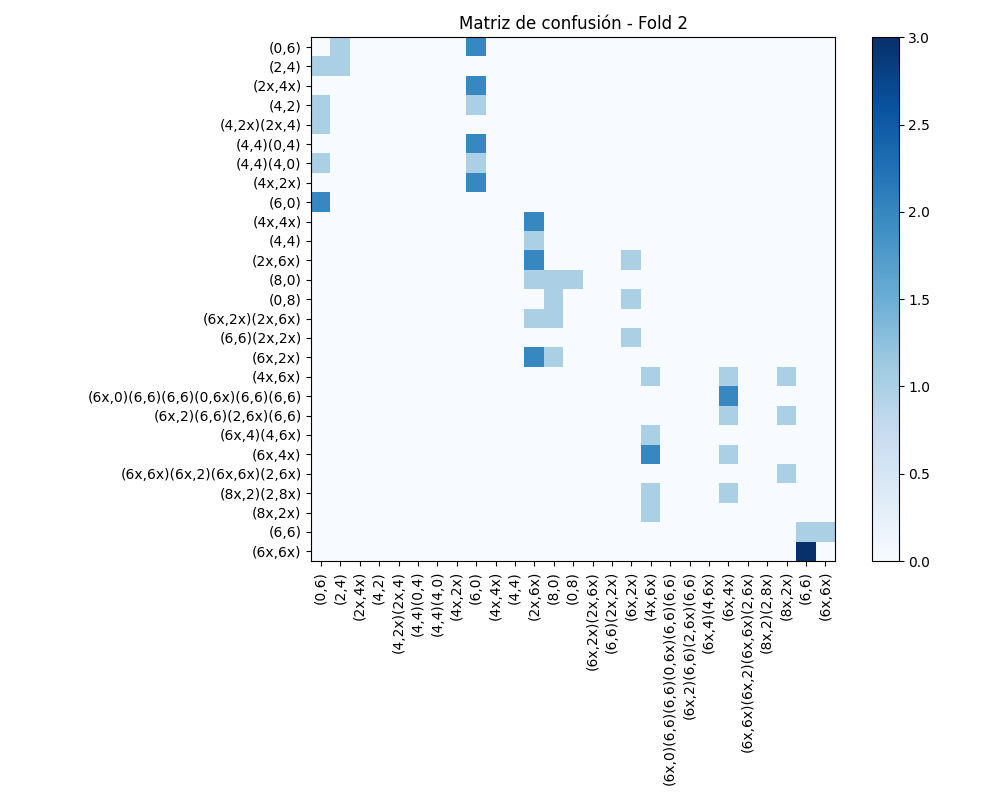
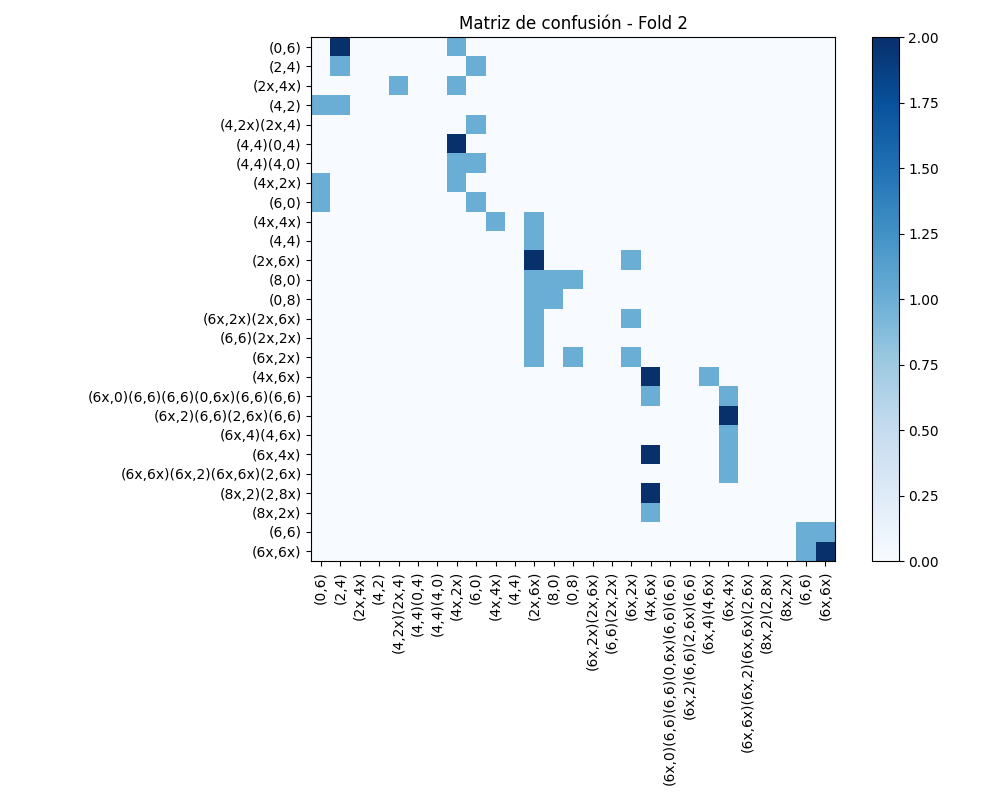
ran cv w/ latest tuned hyperparams (except dropout) + refactor Rasmus folder

diff --git a/arquinew.py b/arquinew.py
@@ -1,6 +1,6 @@
 import tensorflow as tf
 from tensorflow.keras import layers, models
-from tensorflow.keras.optimizers import Adam
+# from tensorflow.keras.optimizers import Adam
 import os, glob
 import numpy as np
 import pandas as pd
@@ -127,9 +127,9 @@ if __name__ == "__main__":
         def build_model():
             inp = layers.Input(shape=(None, max_features), name="coords")  # 17 features
             x = layers.Masking(mask_value=mask_value)(inp)
-            x = layers.Conv1D(32, 7, activation='relu')(x)
-            x = layers.Conv1D(64, 5, padding='same', activation='relu', dilation_rate=2)(x)
-            x = layers.Conv1D(64, 3, padding='same', activation='relu')(x)
+            x = layers.Conv1D(64, 7, activation='relu')(x)
+            x = layers.Conv1D(128, 5, padding='same', activation='relu', dilation_rate=4)(x)
+            x = layers.Conv1D(128, 3, padding='same', activation='relu')(x)
             x = layers.GlobalAveragePooling1D()(x)
             x = layers.Dense(256, activation='relu')(x)
             x = layers.Dropout(0.5)(x)
@@ -137,7 +137,7 @@ if __name__ == "__main__":
             out = layers.Dense(num_classes, activation='softmax')(x)
             
             model = models.Model(inputs=inp, outputs=out)
-            model.compile(optimizer=Adam(learning_rate=0.0005), loss='sparse_categorical_crossentropy', metrics=['accuracy']) # 'adam' o Adam(learning_rate=0.0005)
+            model.compile(optimizer='adam', loss='sparse_categorical_crossentropy', metrics=['accuracy']) # 'adam' o Adam(learning_rate=0.0005)
             return model
         
         model = build_model()
